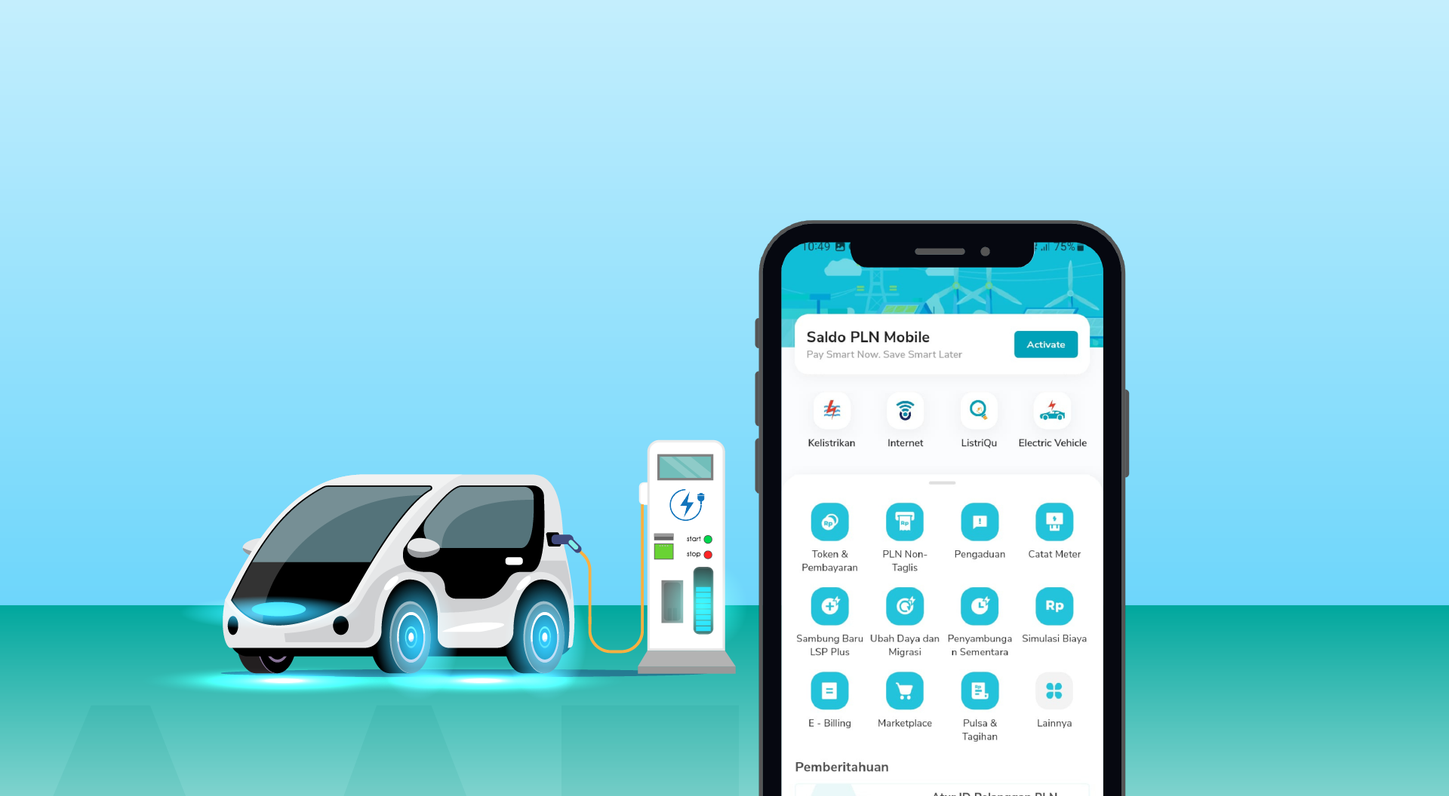
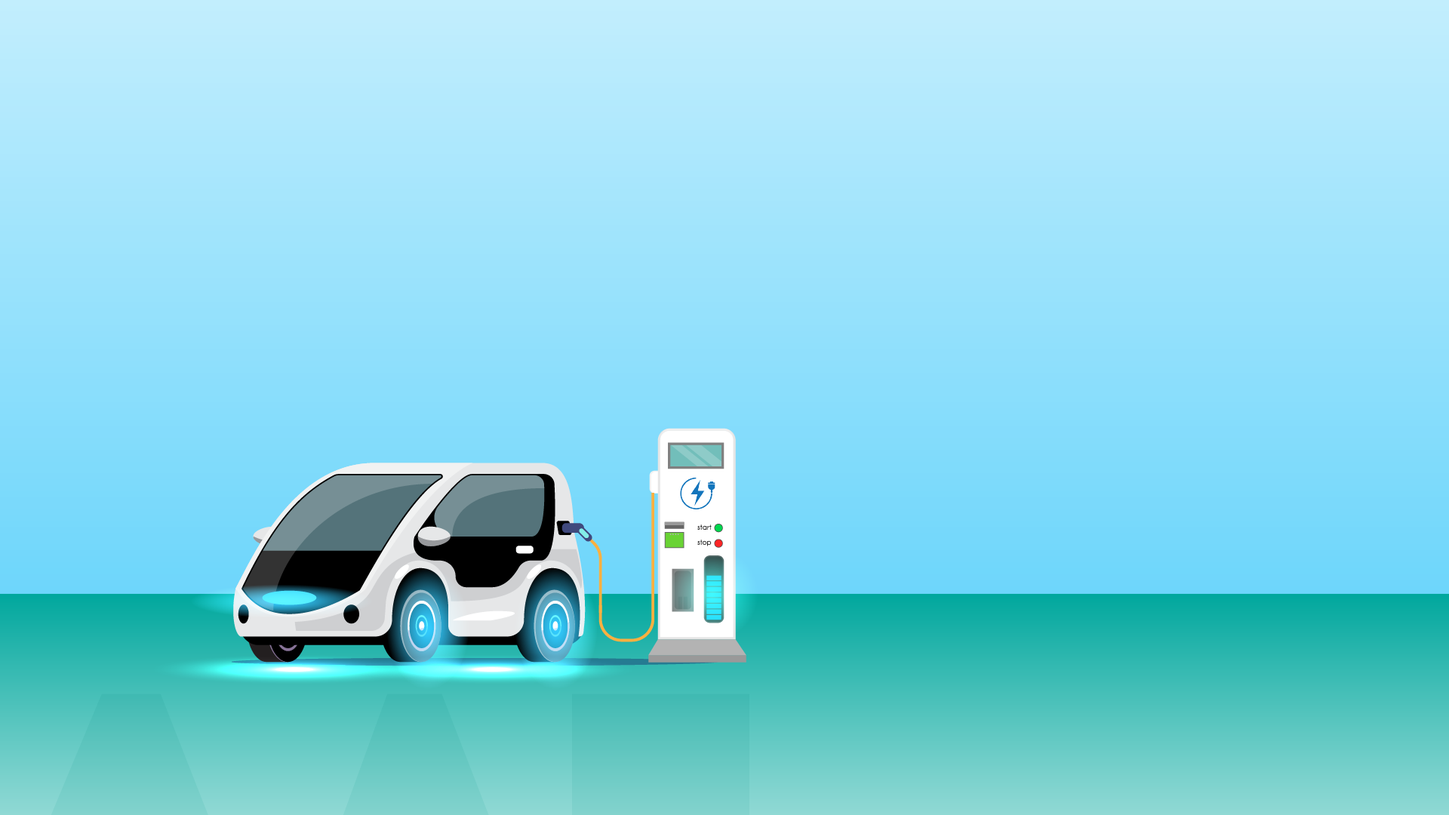
sw

Changed region(s): [[0.0, 0.25, 1.0, 1.0]]

diff --git a/sass/style.css b/sass/style.css
@@ -1,1 +1,1 @@
-@import"https://fonts.googleapis.com/css2?family=DM+Sans:wght@400;700&family=Prompt:wght@400;500&display=swap";body{overflow-x:hidden}body,main{overflow-x:clip;font-family:"Prompt",sans-serif}.firstletter::first-letter{float:left;font-weight:bold;margin-right:8px;font-size:60px;font-size:6rem;line-height:40px;line-height:4rem;height:4rem;text-transform:uppercase}.slick-slide{margin:0 16px}.slick-list{margin:0 -16px}.slick-next,.slick-prev{border:2px solid rgba(255,255,255,.5);width:42px;background:rgba(135,195,211,.6);height:42px;border-radius:50%}.slick-next:hover,.slick-next:focus,.slick-next:active,.slick-prev:hover,.slick-prev:focus,.slick-prev:active{background:rgba(135,195,211,.8)}.slick-next::before,.slick-prev::before{font-family:"FontAwesome";z-index:99;color:#fff}.slick-next{right:-16px;z-index:9}.slick-next::before{content:""}.slick-prev{left:-16px;z-index:9}.slick-prev::before{content:""}.slick-dots li button::before{font-size:39px;content:"";width:20px;height:3px}.isdesktop{display:block}@media screen and (max-width: 766px){.isdesktop{display:none}}.ismobile{display:none}@media screen and (max-width: 766px){.ismobile{display:block}}#nav{background:rgba(135,35,43,.5) !important;z-index:99 !important;backdrop-filter:blur(11px)}@media screen and (max-width: 766px){#nav{backdrop-filter:initial}}.share_icon>a{padding:0 !important}#share{z-index:108 !important}.share_icon>a i{font-size:25px !important;line-height:initial !important}@media screen and (max-width: 766px){.share_icon>a i{font-size:16px !important;line-height:initial !important;width:30px !important;height:30px !important}}h2,h3{font-weight:700}section{padding:32px 0;min-height:100vh;position:relative;background:#ade9e4;z-index:8}section p,section div{font-size:1.2rem;font-weight:300}@media screen and (max-width: 766px){section p,section div{font-size:1rem}}.totop{position:relative;z-index:88}::-webkit-scrollbar{width:5px;height:5px}::-webkit-scrollbar-track{background:#f1f1f1}::-webkit-scrollbar-thumb{background:#888}::-webkit-scrollbar-thumb:hover{background:#555}.bg-trsp-white{background:rgba(255,255,255,.07);padding:8px 16px;border-radius:8px}.bg-trsp-white p,.bg-trsp-white blockquote{margin-bottom:0;color:#fff}.titlex{font-family:"Aeonik Medium",sans-serif;font-weight:700;color:#fff;font-size:3.5rem;line-height:4rem}@media screen and (max-width: 766px){.titlex{font-size:2.2rem;line-height:2.4rem}}.highlights{color:#fff200;font-weight:700}.headerpp{position:fixed;top:0;right:0;z-index:102;left:0;height:56px;display:none;width:100%;background:#000}@media screen and (max-width: 766px){.footerm{position:fixed;height:46px;width:100%;background:#bbb;z-index:999;display:none;left:0;right:0;bottom:0}}.test-sticky{position:sticky;top:56px}@media screen and (max-width: 766px){.test-sticky{margin-bottom:24px;top:160px;text-align:center}}@media screen and (max-width: 766px){.font-in{font-size:1.9rem}}.title__cek{width:fit-content;color:#20253f;padding:8px 8px;margin:0 auto;text-align:center;position:relative}.title__cek h3{font-size:3.2rem;font-family:"Prompt" !important;font-weight:bold}@media screen and (max-width: 766px){.title__cek h3{font-size:2.2rem}}.title__cek h3.titlesa{position:relative;width:fit-content;margin:0 auto;z-index:4}.title__cek h3.titlesa h3{margin-bottom:0;color:#fbfb3b;font-family:"Kanit" !important}.title__cek h3.titlesa::before{content:"";position:absolute;top:16px;bottom:0;z-index:-1;right:-8px;width:100%;height:80%;background:#fff200}.font-big{font-size:3rem}.bg{padding:8px;border-radius:8px}.bg-whites{background:rgba(255,255,255,.8)}.x-100{height:80vh}@keyframes mengkilat{0%,100%{top:0}50%{top:-5px}}.banner .mengkilat{position:relative;top:0;animation:mengkilat .5s linear infinite}.banner::before{content:"";position:absolute;bottom:0;left:0;right:0;height:100px;z-index:9;background:linear-gradient(to top, #ade9e4, transparent)}.banner .img{position:absolute;inset:0;width:100%;height:100%}.banner .img img{width:100%;height:100%;object-fit:cover}.banner__title{position:absolute;left:50%;top:18%;text-align:center;transform:translate(-50%, -50%);z-index:6;color:#20253f;font-weight:bold;text-shadow:2px 2px #fff;width:60%}@media screen and (max-width: 766px){.banner__title{width:100%;text-align:center}}.banner__title h2{font-size:3.7rem;line-height:3.7rem}@media screen and (max-width: 766px){.banner__title h2{font-size:2.7rem;line-height:2.7rem}}@-webkit-keyframes charging-1{20%,100%{opacity:1}}@keyframes charging-1{20%,100%{opacity:1}}@-webkit-keyframes charging-2{0%,20%{opacity:0}40%,100%{opacity:1}}@keyframes charging-2{0%,20%{opacity:0}40%,100%{opacity:1}}@-webkit-keyframes charging-3{0%,40%{opacity:0}60%,100%{opacity:1}}@keyframes charging-3{0%,40%{opacity:0}60%,100%{opacity:1}}@-webkit-keyframes charging-4{0%,60%{opacity:0}80%,100%{opacity:1}}@keyframes charging-4{0%,60%{opacity:0}80%,100%{opacity:1}}@-webkit-keyframes charging-5{0%,80%{opacity:0}100%{opacity:1}}@keyframes charging-5{0%,80%{opacity:0}100%{opacity:1}}@-webkit-keyframes fadeIn{from{opacity:0}to{opacity:1}}@keyframes fadeIn{from{opacity:0}to{opacity:1}}.outer{border:2px solid #333;width:90px;height:42px;display:-webkit-box;display:-ms-flexbox;display:flex;padding:3px;border-radius:5px;position:absolute;z-index:9;transform:translate(-50%, -100%);top:42vh;background:#fff;left:47vw}@media screen and (max-width: 766px){.outer{left:40vw}}.outer:after{display:block;position:absolute;top:5px;left:87px;z-index:-1;content:"";width:4px;height:30px;background:#333;border-top-right-radius:3px;border-bottom-right-radius:3px}.inner{background-color:#43db53;height:100%;opacity:0;-webkit-box-flex:1;-ms-flex:1;flex:1;-webkit-animation:charging-1 4s infinite;animation:charging-1 4s infinite;border-radius:2px}.inner:nth-child(2){margin:0 3px;-webkit-animation:charging-2 4s infinite ease-in-out;animation:charging-2 4s infinite ease-in-out}.inner:nth-child(3){-webkit-animation:charging-3 4s infinite;animation:charging-3 4s infinite}.inner:nth-child(4){margin:0 0 0 3px;-webkit-animation:charging-4 4s infinite;animation:charging-4 4s infinite}.inner:nth-child(5){margin:0 0 0 3px;-webkit-animation:charging-5 4s infinite;animation:charging-5 4s infinite}.flash{color:#fff200;position:absolute;top:9%;left:44%;z-index:9;font-size:20px}.fadeIn{-webkit-animation-name:fadeIn;animation-name:fadeIn;-webkit-animation-duration:.8s;animation-duration:.8s;-webkit-animation-fill-mode:both;animation-fill-mode:both;-webkit-animation-iteration-count:infinite;animation-iteration-count:infinite}.pembukaan{min-height:auto}.pembukaan .square{position:absolute;inset:0;width:100%;height:100%}.pembukaan .square::before{content:"";position:absolute;inset:0;background:linear-gradient(#ade9e4, rgba(173, 233, 228, 0.5), #ade9e4)}@media screen and (max-width: 766px){.pembukaan .square::before{background:linear-gradient(to top, #ade9e4, transparent, #ade9e4)}}.pembukaan .square img{width:100%;height:100%;object-fit:cover}@media screen and (max-width: 766px){.pembukaan .square img{object-fit:cover}}.data .bg{position:absolute;inset:0;width:100%;height:auto}.data .bg img{width:100%;height:100%;object-fit:contain}.data .divisi .round{width:160px;margin:8px auto;display:block;height:160px;border-radius:50%;background:linear-gradient(45deg, #ccc, #fff);padding:24px;border:4px solid #07aef6}@media screen and (max-width: 766px){.data .divisi .round{display:inline-block;vertical-align:middle}}.data .divisi .round img{width:100%;height:100%;object-fit:contain}.data .divisi .all{text-align:center}@media screen and (max-width: 766px){.data .divisi .all{display:inline-block;width:45%;margin-left:12px;text-align:left;vertical-align:middle}}.data .divisi .all .judul{color:#fff200;font-size:1rem;width:fit-content;margin:0 auto;padding:0 8px;background:#20253f}@media screen and (max-width: 766px){.data .divisi .all .judul{margin:0}}.data .divisi .all .big{font-size:2rem;font-weight:700;color:#20253f}@media screen and (max-width: 766px){.data .divisi .all .big{font-size:1.8rem}}.data .divisi .all .medium{font-size:1rem}.data .total{width:fit-content;padding:8px;text-shadow:1px 1px #000;color:#07aef6}.data .total h3{font-size:3rem}.data .lokasi .img{width:100%;height:fit-content}.data .lokasi .img img{width:100%;height:100%;object-fit:contain}.data .data-pom .cards{width:100%;padding:8px;margin:8px 0;position:relative;z-index:8;border-radius:8px;background:rgba(7,174,246,.9)}.data .data-pom .cards .pulau{font-size:1rem;color:#f8f8f8}.data .data-pom .cards .jml{color:#f8f8f8;font-weight:700;font-size:2.2rem}.data .data-pom .cards .jml::after{content:"lokasi";font-size:1rem;font-weight:300;position:absolute;top:50%;margin-left:8px}.baterai{position:relative}.baterai .bgx{position:absolute;inset:0;width:100%;height:100%}.baterai .bgx img{width:100%;height:100%;object-fit:cover}.baterai .brush-top{position:absolute;top:0px;left:0;width:100%}.baterai .brush-bottom{position:absolute;bottom:0px;left:0;width:100%}.baterai .hero{position:relative;background:url("https://akcdn.detik.net.id/community/media/visual/2023/04/18/ilustrasi-lokasi-spklu-1.jpeg?w=720");background-repeat:no-repeat !important;background-position:center left;background-size:cover !important;height:420px}@media screen and (max-width: 766px){.baterai .hero{height:240px}}.baterai .img-mobil{left:initial;right:-6%;width:auto;height:50%;position:absolute}.baterai .img-mobil img{width:100%;height:100%;object-fit:contain}.baterai .img-selang{width:auto;position:absolute;right:1vw;height:50vh;bottom:-76vh}.baterai .img-selang img{width:100%;height:100%;object-fit:contain}.baterai .img-pom{width:auto;position:absolute;right:27%;height:70vh}.baterai .img-pom img{width:100%;height:100%;object-fit:contain}.baterai .img-wash{position:sticky;bottom:0;right:0;top:72px;height:100%;width:100%}.baterai .img-wash .taman{position:absolute;width:100vw;height:100vh;z-index:-1;right:0;left:0;display:block}@media screen and (max-width: 766px){.baterai .img-wash .taman{display:none}}.baterai .img-wash .taman::before{content:"";position:absolute;inset:0;height:100%;background:linear-gradient(to bottom, #ade9e4, rgba(173, 233, 228, 0.5), #ade9e4)}.baterai .img-wash .taman img{width:100%;height:100%;object-fit:cover}.baterai .img-wash .test{width:40%;height:100vh;position:absolute;right:0}@media screen and (max-width: 766px){.baterai .img-wash .test{width:100%}}.baterai .img-wash .test img{width:100%;height:100%;object-fit:contain}@media screen and (max-width: 766px){.baterai .img-wash{width:100%}}.baterai .img-wash::before{content:"";position:absolute;inset:0}.baterai .img{width:100%;height:360px;border:8px solid #f8f8f8}.baterai .img img{width:100%;height:100%;object-fit:cover}.promo .img{width:100%;height:420px}.promo .img img{width:100%;height:100%;object-fit:cover}@media screen and (max-width: 766px){.tokoh .responsive{margin:0 8px}}.tokoh .square{position:absolute;inset:0;width:100%;height:100%}.tokoh .square::before{content:"";position:absolute;inset:0;background:linear-gradient(#ade9e4, rgba(173, 233, 228, 0.5), #ade9e4)}@media screen and (max-width: 766px){.tokoh .square::before{background:linear-gradient(to top, transparent, #ade9e4)}}.tokoh .square img{width:100%;height:100%;object-fit:cover}@media screen and (max-width: 766px){.tokoh .square img{object-fit:cover}}.tokoh .a{transform:skewX(10deg)}.tokoh .responsives{display:block;margin:0 auto;text-align:center}.tokoh .img{width:45%;display:inline-block;margin:0 auto;border:8px solid #fff;transform:rotate(2deg);position:relative;height:420px;text-align:left;margin-bottom:16px}@media screen and (max-width: 766px){.tokoh .img{height:420px;width:100%}}.tokoh .img.rotates{transform:rotate(0deg) !important}.tokoh .img::before{content:"";position:absolute;bottom:0;left:0;right:0;height:100px;background:linear-gradient(to top, black, transparent)}.tokoh .img img{width:100%;height:100%;object-fit:cover}.tokoh .img .h4{position:absolute;bottom:8px;left:8px;color:#fff}.tokoh .img .h4 h4{font-size:1.3rem;margin-bottom:0}.tokoh .img .h4 h5{font-size:1rem;color:#fff200;font-weight:300;margin-bottom:0}.perbandingan .k{position:absolute;top:0;left:0;width:100%;height:100%}.perbandingan .k::before{content:"";position:absolute;inset:0;background:linear-gradient(to top, #ade9e4, rgba(173, 233, 228, 0.2), #ade9e4)}.perbandingan .k img{width:100%;height:100%;object-fit:cover}.perbandingan .bg{position:absolute;top:0;left:0;width:40%;height:auto}@media screen and (max-width: 766px){.perbandingan .bg{width:100%}}.perbandingan .bg::before{content:"";position:absolute;inset:0;background:linear-gradient(to right, #ade9e4, rgba(173, 233, 228, 0.2), #ade9e4)}.perbandingan .bg img{width:100%;height:100%;object-fit:contain}.perbandingan h4{font-weight:700;font-size:2rem;position:absolute;top:-32px;font-style:italic;margin-bottom:0;text-shadow:1px 1px #fff;margin-left:24px;color:#12726c}@media screen and (max-width: 766px){.perbandingan h4{font-size:1.2rem;position:absolute;top:-24px;margin-left:-10px}}.perbandingan .ev .img{position:absolute;right:-18%;width:200px;height:auto;bottom:0}@media screen and (max-width: 766px){.perbandingan .ev .img{right:-22%;bottom:0}}.perbandingan .ev .img img{width:100%;height:100%;object-fit:contain}.perbandingan .ice .img{position:absolute;left:-18%;width:200px;height:auto;bottom:0}@media screen and (max-width: 766px){.perbandingan .ice .img{left:-22%;bottom:0;width:175px}}.perbandingan .ice .img img{width:100%;height:100%;object-fit:contain}.perbandingan .boxz{background:#fff;padding:16px;transform:skewX(-5deg);border:6px solid #12726c}.perbandingan .boxz::before{content:"";position:absolute}.perbandingan .boxz ul{transform:skewX(5deg);--icon-space: 1.3em;list-style-type:none;padding:0}.perbandingan .boxz ul li{padding-left:var(--icon-space);border-bottom:1px solid #47bab3;width:75%;padding-bottom:2px;margin-bottom:8px}@media screen and (max-width: 766px){.perbandingan .boxz ul li{width:100%}}.perbandingan .boxz ul li::before{content:"";font-family:"FontAwesome";color:#47bab3;display:inline-block;margin-left:calc( var(--icon-space) * -1 );width:var(--icon-space)}.spbklu .bg{position:absolute;inset:0;width:100%;padding:0;height:100%}@media screen and (max-width: 766px){.spbklu .bg{height:45%;inset:initial;bottom:180px;left:0;right:0}}.spbklu .bg::before{content:"";position:absolute;inset:0;background:linear-gradient(#ade9e4, rgba(173, 233, 228, 0.7), #ade9e4)}.spbklu .bg img{width:100%;height:100%;object-fit:cover}.spbklu .semua{position:absolute;bottom:60px;left:50%;width:85%;transform:translate(-50%, 0)}@keyframes neon{0%,100%{filter:drop-shadow(0 0 0.75rem red)}50%{filter:initial}}.spbklu .semua .mobil{width:35vw;height:auto;filter:initial;animation:neon 1s linear infinite}@media screen and (max-width: 766px){.spbklu .semua .mobil{width:100vw;position:absolute;bottom:15%;left:-50%}}.spbklu .semua .mobil img{width:100%;height:100%;object-fit:cover}@keyframes MoveUpDown{0%,100%{bottom:60%}50%{bottom:65%}}@keyframes MoveUpDownmob{0%,100%{height:50vh}50%{height:55vh}}.spbklu .semua .isi{position:absolute;bottom:-27vh;width:100%;height:80vh;left:-23vw}@media screen and (max-width: 766px){.spbklu .semua .isi{position:absolute;bottom:-20vh;width:80%;height:80vh;left:13vw}}.spbklu .semua .isi img{width:100%;height:100%;object-fit:contain}.spbklu .semua .motor{position:absolute;bottom:0;width:60%;height:50vh;animation:neon 3s linear infinite}@media screen and (max-width: 766px){.spbklu .semua .motor{left:30vw}}.spbklu .semua .motor img{width:100%;height:100%;object-fit:contain}.spbklu .semua .bateraix{position:absolute;bottom:60%;animation:MoveUpDown 2s linear infinite;left:50%;width:auto;height:auto}@media screen and (max-width: 766px){.spbklu .semua .bateraix{width:35vw;height:50vh;bottom:75%;left:65%;animation:MoveUpDownmob 1s linear infinite}}.spbklu .semua .bateraix img{width:100%;height:100%;object-fit:contain}.spbklu .semua .panah{position:absolute;left:30%;width:20%;bottom:50%;height:auto}@media screen and (max-width: 766px){.spbklu .semua .panah{position:absolute;left:30%;width:47%;bottom:100%;height:33vh;transform:rotate(-16deg)}}.spbklu .semua .panah img{width:100%;height:100%;object-fit:contain}.pln-mobile{padding:0}.pln-mobile .bg{position:absolute;inset:0;width:100%;height:100%;z-index:1}.pln-mobile .bg::before{content:"";position:absolute;inset:0;background:linear-gradient(to top, #ade9e4, rgba(173, 233, 228, 0.6), #ade9e4)}.pln-mobile .bg img{width:100%;height:100%;object-fit:cover}.pln-mobile .ilustrasi{position:absolute;left:-24%;top:0;z-index:2;width:100%;height:100%}.pln-mobile .ilustrasi img{width:100%;height:100%;object-fit:contain}.pln-mobile .promo .hp{position:absolute;left:0;top:0;width:70vw;z-index:8;height:100vh}@media screen and (max-width: 766px){.pln-mobile .promo .hp{width:100vw}}.pln-mobile .promo .hp img{width:100%;height:100%;object-fit:contain}/*# sourceMappingURL=style.css.map */
+@import"https://fonts.googleapis.com/css2?family=DM+Sans:wght@400;700&family=Prompt:wght@400;500&display=swap";body{overflow-x:hidden}body,main{overflow-x:clip;font-family:"Prompt",sans-serif}.firstletter::first-letter{float:left;font-weight:bold;margin-right:8px;font-size:60px;font-size:6rem;line-height:40px;line-height:4rem;height:4rem;text-transform:uppercase}.slick-slide{margin:0 16px}.slick-list{margin:0 -16px}.slick-next,.slick-prev{border:2px solid rgba(255,255,255,.5);width:42px;background:rgba(135,195,211,.6);height:42px;border-radius:50%}.slick-next:hover,.slick-next:focus,.slick-next:active,.slick-prev:hover,.slick-prev:focus,.slick-prev:active{background:rgba(135,195,211,.8)}.slick-next::before,.slick-prev::before{font-family:"FontAwesome";z-index:99;color:#fff}.slick-next{right:-16px;z-index:9}.slick-next::before{content:""}.slick-prev{left:-16px;z-index:9}.slick-prev::before{content:""}.slick-dots li button::before{font-size:39px;content:"";width:20px;height:3px}.isdesktop{display:block}@media screen and (max-width: 766px){.isdesktop{display:none}}.ismobile{display:none}@media screen and (max-width: 766px){.ismobile{display:block}}#nav{background:rgba(135,35,43,.5) !important;z-index:99 !important;backdrop-filter:blur(11px)}@media screen and (max-width: 766px){#nav{backdrop-filter:initial}}.share_icon>a{padding:0 !important}#share{z-index:108 !important}.share_icon>a i{font-size:25px !important;line-height:initial !important}@media screen and (max-width: 766px){.share_icon>a i{font-size:16px !important;line-height:initial !important;width:30px !important;height:30px !important}}h2,h3{font-weight:700}section{padding:32px 0;min-height:100vh;position:relative;background:#ade9e4;z-index:8}section p,section div{font-size:1.2rem;font-weight:300}@media screen and (max-width: 766px){section p,section div{font-size:1rem}}.totop{position:relative;z-index:88}::-webkit-scrollbar{width:5px;height:5px}::-webkit-scrollbar-track{background:#f1f1f1}::-webkit-scrollbar-thumb{background:#888}::-webkit-scrollbar-thumb:hover{background:#555}.bg-trsp-white{background:rgba(255,255,255,.07);padding:8px 16px;border-radius:8px}.bg-trsp-white p,.bg-trsp-white blockquote{margin-bottom:0;color:#fff}.titlex{font-family:"Aeonik Medium",sans-serif;font-weight:700;color:#fff;font-size:3.5rem;line-height:4rem}@media screen and (max-width: 766px){.titlex{font-size:2.2rem;line-height:2.4rem}}.highlights{color:#fff200;font-weight:700}.headerpp{position:fixed;top:0;right:0;z-index:102;left:0;height:56px;display:none;width:100%;background:#000}@media screen and (max-width: 766px){.footerm{position:fixed;height:46px;width:100%;background:#bbb;z-index:999;display:none;left:0;right:0;bottom:0}}.test-sticky{position:sticky;top:56px}@media screen and (max-width: 766px){.test-sticky{margin-bottom:24px;top:160px;text-align:center}}@media screen and (max-width: 766px){.font-in{font-size:1.9rem}}.title__cek{width:fit-content;color:#20253f;padding:8px 8px;margin:0 auto;text-align:center;position:relative}.title__cek h3{font-size:3.2rem;font-family:"Prompt" !important;font-weight:bold}@media screen and (max-width: 766px){.title__cek h3{font-size:2.2rem}}.title__cek h3.titlesa{position:relative;width:fit-content;margin:0 auto;z-index:4}.title__cek h3.titlesa h3{margin-bottom:0;color:#fbfb3b;font-family:"Kanit" !important}.title__cek h3.titlesa::before{content:"";position:absolute;top:16px;bottom:0;z-index:-1;right:-8px;width:100%;height:80%;background:#fff200}.font-big{font-size:3rem}.bg{padding:8px;border-radius:8px}.bg-whites{background:rgba(255,255,255,.8)}.x-100{height:80vh}@keyframes mengkilat{0%,100%{top:0}50%{top:-5px}}.banner .mengkilat{position:relative;top:0;animation:mengkilat .5s linear infinite}.banner::before{content:"";position:absolute;bottom:0;left:0;right:0;height:100px;z-index:9;background:linear-gradient(to top, #ade9e4, transparent)}.banner .img{position:absolute;inset:0;width:100%;height:100%}.banner .img img{width:100%;height:100%;object-fit:cover}.banner .img-hp{position:absolute;width:auto;height:85vh;right:23vw;bottom:-15vh}@media screen and (max-width: 766px){.banner .img-hp{position:absolute;width:auto;height:65vh;right:-35vw;bottom:-15vh}}.banner .img-hp img{width:100%;height:100%;object-fit:contain}.banner__title{position:absolute;left:50%;top:18%;text-align:center;transform:translate(-50%, -50%);z-index:6;color:#20253f;font-weight:bold;text-shadow:2px 2px #fff;width:60%}@media screen and (max-width: 766px){.banner__title{width:100%;text-align:center}}.banner__title h2{font-size:3.7rem;line-height:3.7rem}@media screen and (max-width: 766px){.banner__title h2{font-size:2.7rem;line-height:2.7rem}}@-webkit-keyframes charging-1{20%,100%{opacity:1}}@keyframes charging-1{20%,100%{opacity:1}}@-webkit-keyframes charging-2{0%,20%{opacity:0}40%,100%{opacity:1}}@keyframes charging-2{0%,20%{opacity:0}40%,100%{opacity:1}}@-webkit-keyframes charging-3{0%,40%{opacity:0}60%,100%{opacity:1}}@keyframes charging-3{0%,40%{opacity:0}60%,100%{opacity:1}}@-webkit-keyframes charging-4{0%,60%{opacity:0}80%,100%{opacity:1}}@keyframes charging-4{0%,60%{opacity:0}80%,100%{opacity:1}}@-webkit-keyframes charging-5{0%,80%{opacity:0}100%{opacity:1}}@keyframes charging-5{0%,80%{opacity:0}100%{opacity:1}}@-webkit-keyframes fadeIn{from{opacity:0}to{opacity:1}}@keyframes fadeIn{from{opacity:0}to{opacity:1}}.outer{border:2px solid #333;width:90px;height:42px;display:-webkit-box;display:-ms-flexbox;display:flex;padding:3px;border-radius:5px;position:absolute;z-index:9;transform:translate(-50%, -100%);top:42vh;background:#fff;left:47vw}@media screen and (max-width: 766px){.outer{left:40vw}}.outer:after{display:block;position:absolute;top:5px;left:87px;z-index:-1;content:"";width:4px;height:30px;background:#333;border-top-right-radius:3px;border-bottom-right-radius:3px}.inner{background-color:#43db53;height:100%;opacity:0;-webkit-box-flex:1;-ms-flex:1;flex:1;-webkit-animation:charging-1 4s infinite;animation:charging-1 4s infinite;border-radius:2px}.inner:nth-child(2){margin:0 3px;-webkit-animation:charging-2 4s infinite ease-in-out;animation:charging-2 4s infinite ease-in-out}.inner:nth-child(3){-webkit-animation:charging-3 4s infinite;animation:charging-3 4s infinite}.inner:nth-child(4){margin:0 0 0 3px;-webkit-animation:charging-4 4s infinite;animation:charging-4 4s infinite}.inner:nth-child(5){margin:0 0 0 3px;-webkit-animation:charging-5 4s infinite;animation:charging-5 4s infinite}.flash{color:#fff200;position:absolute;top:9%;left:44%;z-index:9;font-size:20px}.fadeIn{-webkit-animation-name:fadeIn;animation-name:fadeIn;-webkit-animation-duration:.8s;animation-duration:.8s;-webkit-animation-fill-mode:both;animation-fill-mode:both;-webkit-animation-iteration-count:infinite;animation-iteration-count:infinite}.pembukaan{min-height:auto}.pembukaan .square{position:absolute;inset:0;width:100%;height:100%}.pembukaan .square::before{content:"";position:absolute;inset:0;background:linear-gradient(#ade9e4, rgba(173, 233, 228, 0.5), #ade9e4)}@media screen and (max-width: 766px){.pembukaan .square::before{background:linear-gradient(to top, #ade9e4, transparent, #ade9e4)}}.pembukaan .square img{width:100%;height:100%;object-fit:cover}@media screen and (max-width: 766px){.pembukaan .square img{object-fit:cover}}.data .bg{position:absolute;inset:0;width:100%;height:auto}.data .bg img{width:100%;height:100%;object-fit:contain}.data .divisi .round{width:160px;margin:8px auto;display:block;height:160px;border-radius:50%;background:linear-gradient(45deg, #ccc, #fff);padding:24px;border:4px solid #07aef6}@media screen and (max-width: 766px){.data .divisi .round{display:inline-block;vertical-align:middle}}.data .divisi .round img{width:100%;height:100%;object-fit:contain}.data .divisi .all{text-align:center}@media screen and (max-width: 766px){.data .divisi .all{display:inline-block;width:45%;margin-left:12px;text-align:left;vertical-align:middle}}.data .divisi .all .judul{color:#fff200;font-size:1rem;width:fit-content;margin:0 auto;padding:0 8px;background:#20253f}@media screen and (max-width: 766px){.data .divisi .all .judul{margin:0}}.data .divisi .all .big{font-size:2rem;font-weight:700;color:#20253f}@media screen and (max-width: 766px){.data .divisi .all .big{font-size:1.8rem}}.data .divisi .all .medium{font-size:1rem}.data .total{width:fit-content;padding:8px;text-shadow:1px 1px #000;color:#07aef6}.data .total h3{font-size:3rem}.data .lokasi .img{width:100%;height:fit-content}.data .lokasi .img img{width:100%;height:100%;object-fit:contain}.data .data-pom .cards{width:100%;padding:8px;margin:8px 0;position:relative;z-index:8;border-radius:8px;background:rgba(7,174,246,.9)}.data .data-pom .cards .pulau{font-size:1rem;color:#f8f8f8}.data .data-pom .cards .jml{color:#f8f8f8;font-weight:700;font-size:2.2rem}.data .data-pom .cards .jml::after{content:"lokasi";font-size:1rem;font-weight:300;position:absolute;top:50%;margin-left:8px}.baterai{position:relative}.baterai .bgx{position:absolute;inset:0;width:100%;height:100%}.baterai .bgx img{width:100%;height:100%;object-fit:cover}.baterai .brush-top{position:absolute;top:0px;left:0;width:100%}.baterai .brush-bottom{position:absolute;bottom:0px;left:0;width:100%}.baterai .hero{position:relative;background:url("https://akcdn.detik.net.id/community/media/visual/2023/04/18/ilustrasi-lokasi-spklu-1.jpeg?w=720");background-repeat:no-repeat !important;background-position:center left;background-size:cover !important;height:420px}@media screen and (max-width: 766px){.baterai .hero{height:240px}}.baterai .img-mobil{left:initial;right:-6%;width:auto;height:50%;position:absolute}.baterai .img-mobil img{width:100%;height:100%;object-fit:contain}.baterai .img-selang{width:auto;position:absolute;right:1vw;height:50vh;bottom:-76vh}.baterai .img-selang img{width:100%;height:100%;object-fit:contain}.baterai .img-pom{width:auto;position:absolute;right:27%;height:70vh}.baterai .img-pom img{width:100%;height:100%;object-fit:contain}.baterai .img-wash{position:sticky;bottom:0;right:0;top:72px;height:100%;width:100%}.baterai .img-wash .taman{position:absolute;width:100vw;height:100vh;z-index:-1;right:0;left:0;display:block}@media screen and (max-width: 766px){.baterai .img-wash .taman{display:none}}.baterai .img-wash .taman::before{content:"";position:absolute;inset:0;height:100%;background:linear-gradient(to bottom, #ade9e4, rgba(173, 233, 228, 0.5), #ade9e4)}.baterai .img-wash .taman img{width:100%;height:100%;object-fit:cover}.baterai .img-wash .test{width:40%;height:100vh;position:absolute;right:0}@media screen and (max-width: 766px){.baterai .img-wash .test{width:100%}}.baterai .img-wash .test img{width:100%;height:100%;object-fit:contain}@media screen and (max-width: 766px){.baterai .img-wash{width:100%}}.baterai .img-wash::before{content:"";position:absolute;inset:0}.baterai .img{width:100%;height:360px;border:8px solid #f8f8f8}.baterai .img img{width:100%;height:100%;object-fit:cover}.promo .img{width:100%;height:420px}.promo .img img{width:100%;height:100%;object-fit:cover}@media screen and (max-width: 766px){.tokoh .responsive{margin:0 8px}}.tokoh .square{position:absolute;inset:0;width:100%;height:100%}.tokoh .square::before{content:"";position:absolute;inset:0;background:linear-gradient(#ade9e4, rgba(173, 233, 228, 0.5), #ade9e4)}@media screen and (max-width: 766px){.tokoh .square::before{background:linear-gradient(to top, transparent, #ade9e4)}}.tokoh .square img{width:100%;height:100%;object-fit:cover}@media screen and (max-width: 766px){.tokoh .square img{object-fit:cover}}.tokoh .a{transform:skewX(10deg)}.tokoh .responsives{display:block;margin:0 auto;text-align:center}.tokoh .img{width:45%;display:inline-block;margin:0 auto;border:8px solid #fff;transform:rotate(2deg);position:relative;height:420px;text-align:left;margin-bottom:16px}@media screen and (max-width: 766px){.tokoh .img{height:420px;width:100%}}.tokoh .img.rotates{transform:rotate(0deg) !important}.tokoh .img::before{content:"";position:absolute;bottom:0;left:0;right:0;height:100px;background:linear-gradient(to top, black, transparent)}.tokoh .img img{width:100%;height:100%;object-fit:cover}.tokoh .img .h4{position:absolute;bottom:8px;left:8px;color:#fff}.tokoh .img .h4 h4{font-size:1.3rem;margin-bottom:0}.tokoh .img .h4 h5{font-size:1rem;color:#fff200;font-weight:300;margin-bottom:0}.perbandingan .k{position:absolute;top:0;left:0;width:100%;height:100%}.perbandingan .k::before{content:"";position:absolute;inset:0;background:linear-gradient(to top, #ade9e4, rgba(173, 233, 228, 0.2), #ade9e4)}.perbandingan .k img{width:100%;height:100%;object-fit:cover}.perbandingan .bg{position:absolute;top:0;left:0;width:40%;height:auto}@media screen and (max-width: 766px){.perbandingan .bg{width:100%}}.perbandingan .bg::before{content:"";position:absolute;inset:0;background:linear-gradient(to right, #ade9e4, rgba(173, 233, 228, 0.2), #ade9e4)}.perbandingan .bg img{width:100%;height:100%;object-fit:contain}.perbandingan h4{font-weight:700;font-size:2rem;position:absolute;top:-32px;font-style:italic;margin-bottom:0;text-shadow:1px 1px #fff;margin-left:24px;color:#12726c}@media screen and (max-width: 766px){.perbandingan h4{font-size:1.2rem;position:absolute;top:-24px;margin-left:-10px}}.perbandingan .ev .img{position:absolute;right:-18%;width:200px;height:auto;bottom:0}@media screen and (max-width: 766px){.perbandingan .ev .img{right:-22%;bottom:0}}.perbandingan .ev .img img{width:100%;height:100%;object-fit:contain}.perbandingan .ice .img{position:absolute;left:-18%;width:200px;height:auto;bottom:0}@media screen and (max-width: 766px){.perbandingan .ice .img{left:-22%;bottom:0;width:175px}}.perbandingan .ice .img img{width:100%;height:100%;object-fit:contain}.perbandingan .boxz{background:#fff;padding:16px;transform:skewX(-5deg);border:6px solid #12726c}.perbandingan .boxz::before{content:"";position:absolute}.perbandingan .boxz ul{transform:skewX(5deg);--icon-space: 1.3em;list-style-type:none;padding:0}.perbandingan .boxz ul li{padding-left:var(--icon-space);border-bottom:1px solid #47bab3;width:75%;padding-bottom:2px;margin-bottom:8px}@media screen and (max-width: 766px){.perbandingan .boxz ul li{width:100%}}.perbandingan .boxz ul li::before{content:"";font-family:"FontAwesome";color:#47bab3;display:inline-block;margin-left:calc( var(--icon-space) * -1 );width:var(--icon-space)}.spbklu .bg{position:absolute;inset:0;width:100%;padding:0;height:100%}@media screen and (max-width: 766px){.spbklu .bg{height:45%;inset:initial;bottom:180px;left:0;right:0}}.spbklu .bg::before{content:"";position:absolute;inset:0;background:linear-gradient(#ade9e4, rgba(173, 233, 228, 0.7), #ade9e4)}.spbklu .bg img{width:100%;height:100%;object-fit:cover}.spbklu .semua{position:absolute;bottom:60px;left:50%;width:85%;transform:translate(-50%, 0)}@keyframes neon{0%,100%{filter:drop-shadow(0 0 0.75rem red)}50%{filter:initial}}.spbklu .semua .mobil{width:35vw;height:auto;filter:initial;animation:neon 1s linear infinite}@media screen and (max-width: 766px){.spbklu .semua .mobil{width:100vw;position:absolute;bottom:15%;left:-50%}}.spbklu .semua .mobil img{width:100%;height:100%;object-fit:cover}@keyframes MoveUpDown{0%,100%{bottom:60%}50%{bottom:65%}}@keyframes MoveUpDownmob{0%,100%{height:50vh}50%{height:55vh}}.spbklu .semua .isi{position:absolute;bottom:-27vh;width:100%;height:80vh;left:-23vw}@media screen and (max-width: 766px){.spbklu .semua .isi{position:absolute;bottom:-20vh;width:80%;height:80vh;left:13vw}}.spbklu .semua .isi img{width:100%;height:100%;object-fit:contain}.spbklu .semua .motor{position:absolute;bottom:0;width:60%;height:50vh;animation:neon 3s linear infinite}@media screen and (max-width: 766px){.spbklu .semua .motor{left:30vw}}.spbklu .semua .motor img{width:100%;height:100%;object-fit:contain}.spbklu .semua .bateraix{position:absolute;bottom:60%;animation:MoveUpDown 2s linear infinite;left:50%;width:auto;height:auto}@media screen and (max-width: 766px){.spbklu .semua .bateraix{width:35vw;height:50vh;bottom:75%;left:65%;animation:MoveUpDownmob 1s linear infinite}}.spbklu .semua .bateraix img{width:100%;height:100%;object-fit:contain}.spbklu .semua .panah{position:absolute;left:30%;width:20%;bottom:50%;height:auto}@media screen and (max-width: 766px){.spbklu .semua .panah{position:absolute;left:30%;width:47%;bottom:100%;height:33vh;transform:rotate(-16deg)}}.spbklu .semua .panah img{width:100%;height:100%;object-fit:contain}.pln-mobile{padding:0}.pln-mobile .bg{position:absolute;inset:0;width:100%;height:100%;z-index:1}.pln-mobile .bg::before{content:"";position:absolute;inset:0;background:linear-gradient(to top, #ade9e4, rgba(173, 233, 228, 0.6), #ade9e4)}.pln-mobile .bg img{width:100%;height:100%;object-fit:cover}.pln-mobile .ilustrasi{position:absolute;left:-24%;top:0;z-index:2;width:100%;height:100%}.pln-mobile .ilustrasi img{width:100%;height:100%;object-fit:contain}.pln-mobile .promo .hp{position:absolute;left:0;top:0;width:70vw;z-index:8;height:100vh}@media screen and (max-width: 766px){.pln-mobile .promo .hp{width:100vw}}.pln-mobile .promo .hp img{width:100%;height:100%;object-fit:contain}/*# sourceMappingURL=style.css.map */

diff --git a/sass/banner.scss b/sass/banner.scss
@@ -33,6 +33,25 @@
             object-fit: cover;
         }
     }
+    .img-hp {
+        position: absolute;
+        width: auto;
+        height: 85vh;
+        right: 23vw;
+        bottom: -15vh;
+        @media screen and (max-width:766px) {
+            position: absolute;
+            width: auto;
+            height: 65vh;
+            right: -35vw;
+            bottom: -15vh;
+        }
+        img {
+            width: 100%;
+            height: 100%;
+            object-fit: contain;
+        }
+    }
     &__title {
         position: absolute;
         left: 50%;

diff --git a/index.html b/index.html
@@ -34,6 +34,11 @@
                 <div class="img">
                     <img src="img/banner.png" alt>
                 </div>
+                <div class="img-hp" data-aos="fade-up"
+                    data-aos-delay="500"
+                    data-aos-duration="1000">
+                    <img src="img/banner-hp.png" alt>
+                </div>
             </section>
 
             <section class="pembukaan" hidden>
